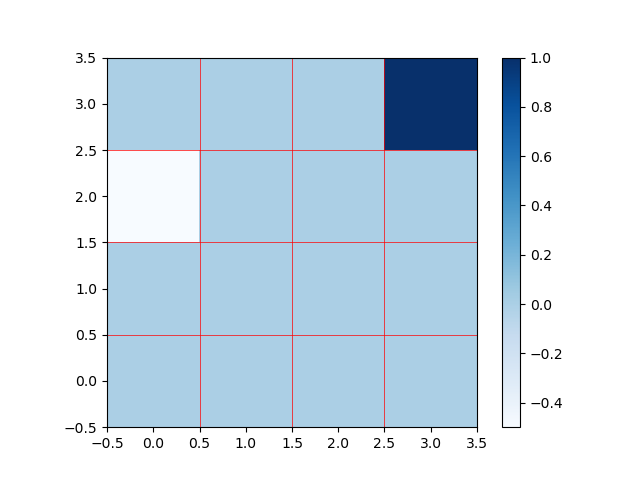
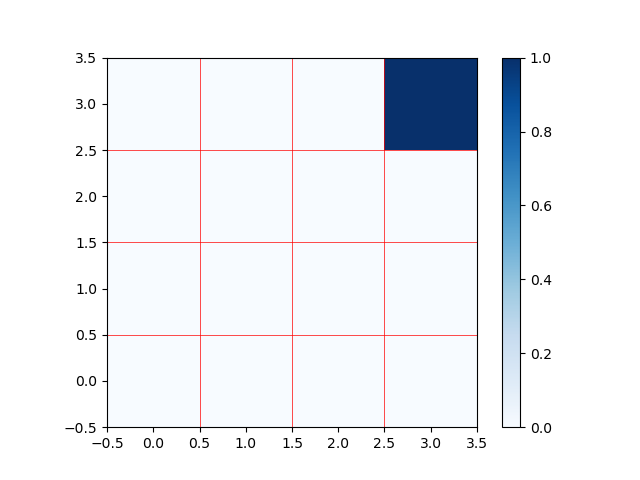
updates

diff --git a/src/mce_irl.py b/src/mce_irl.py
@@ -17,13 +17,13 @@ def setup_mdp():
     """
     GRID_SIZE = 4
     # create our world
-    world = W.IcyGridWorld(size=GRID_SIZE, p_slip=0.2)
+    world = W.IcyGridWorld(size=GRID_SIZE, p_slip=0.3)
 
     # set up the reward function
     reward = np.zeros(world.n_states)
 
     reward[-1] = 1.0
-    reward[8] = -0.5
+    reward[8] = 0.0
 
     # set up terminal states
     terminal = [GRID_SIZE**2-1]
@@ -37,7 +37,7 @@ def generate_trajectories(world, reward, terminal):
     Generate some "expert" trajectories.
     """
     # parameters
-    n_trajectories = 200
+    n_trajectories = 20
     discount = 0.7
     weighting = lambda x: x**5
 
@@ -95,7 +95,6 @@ def maxent_causal(world, terminal, trajectories, discount=0.7):
 
     return reward
 
-
 def mce_irl():
 
     cwd = os.getcwd()
@@ -151,7 +150,7 @@ def mce_irl():
     # maximum casal entropy reinforcement learning (non-causal)
     reward_maxcausal = maxent_causal(world, terminal, trajectories)
 
-    print(reward_maxcausal)
+    # print(reward_maxcausal)
 
     # show the computed reward
     ax = plt.figure(num='MaxEnt Reward (Causal)').add_subplot(111)
@@ -163,4 +162,4 @@ def mce_irl():
     print("Done!")
 
     # plt.show()
-    return (reward_maxcausal, world)
+    return (reward_maxcausal, world, terminal)

diff --git a/src/main.py b/src/main.py
@@ -12,16 +12,39 @@ import numpy as np
 import matplotlib.pyplot as plt
 import os
 
+def get_policy(start):
+    pass
+
+def sttl_goal_reach():
+    '''
+        F (Pr[pos = goal] > 0.99)
+    '''
+    pass
+
+def sttl_obstacle_avoid():
+    '''
+        G (Pr[dist2obs > 2] > 0.99)
+    '''
+    pass
 
 def main():
-    reward_mce, world = I.mce_irl()
+    reward_mce, world, goal = I.mce_irl()
     value = S.value_iteration(world.p_transition, reward_mce, discount = 0.7)
     weighting = lambda x: x**5
     policy = S.stochastic_policy_from_value(world, value, w=weighting)
     policy_exec = T.stochastic_policy_adapter(policy)
 
-    # print(value)
-    print(policy_exec)
+    # print("Value\n", value)
+    # print("Policy\n", policy)
+    # print("Policy Exec\n", policy_exec)
+
+    D = []
+    np.random.seed(0)
+    for _ in range(3):
+        start = np.random.randint(0, 16)
+        sample = T.generate_trajectory(world, policy_exec, start, goal)
+        # print("Start: %d, Policy:" %(start))
+        D.append(sample)
 
 
 if __name__ == "__main__":
